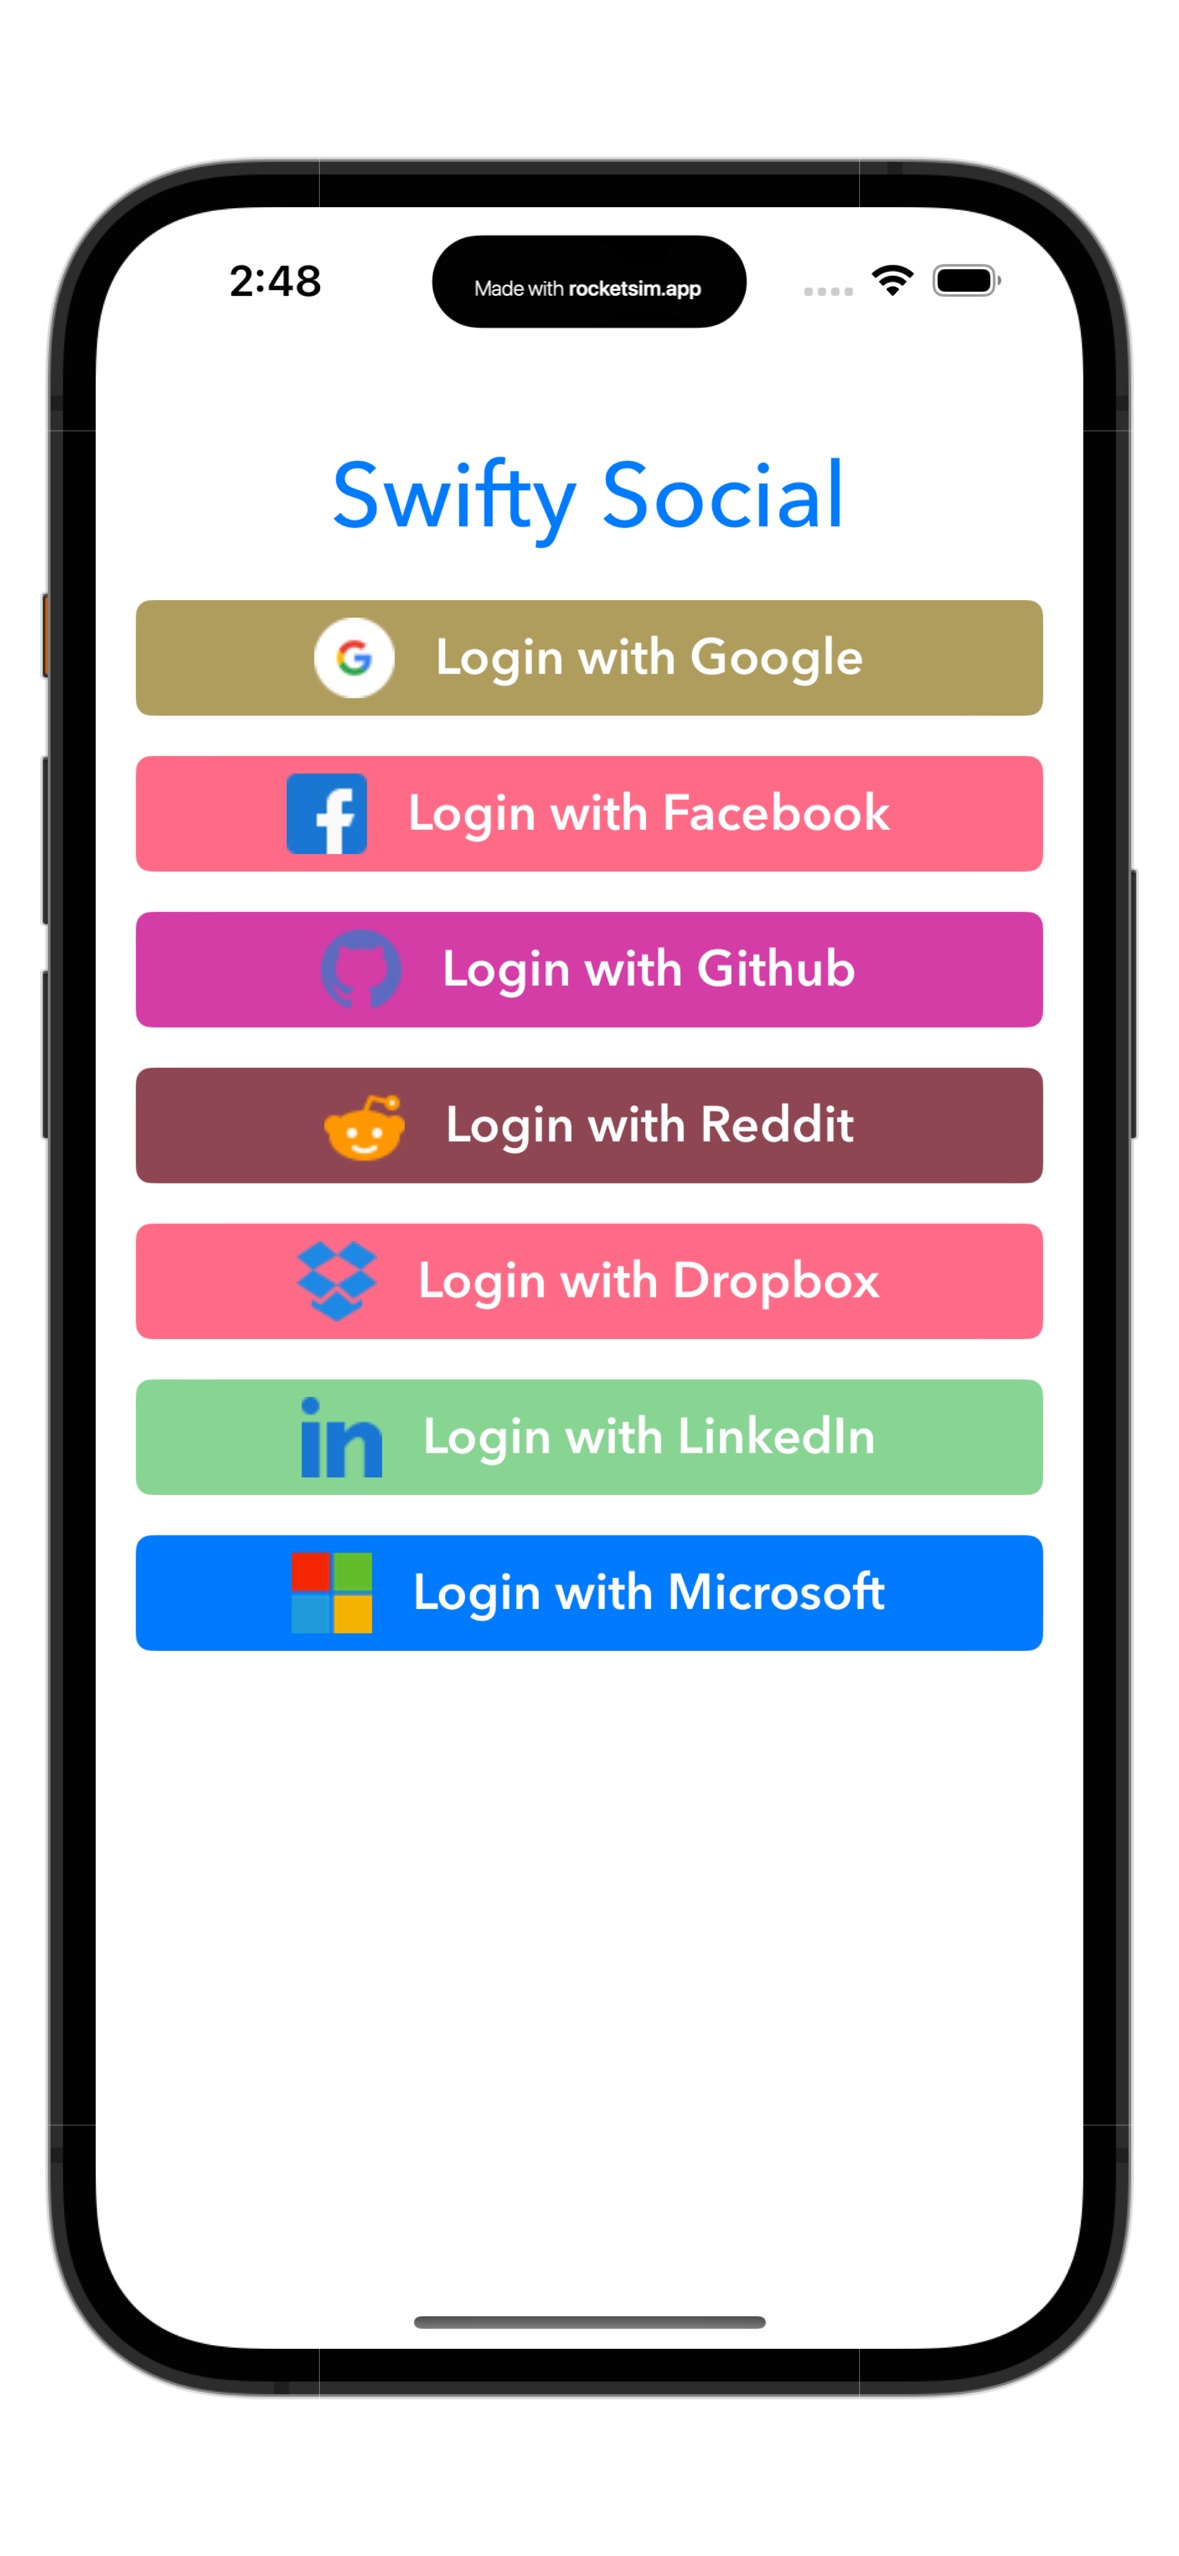
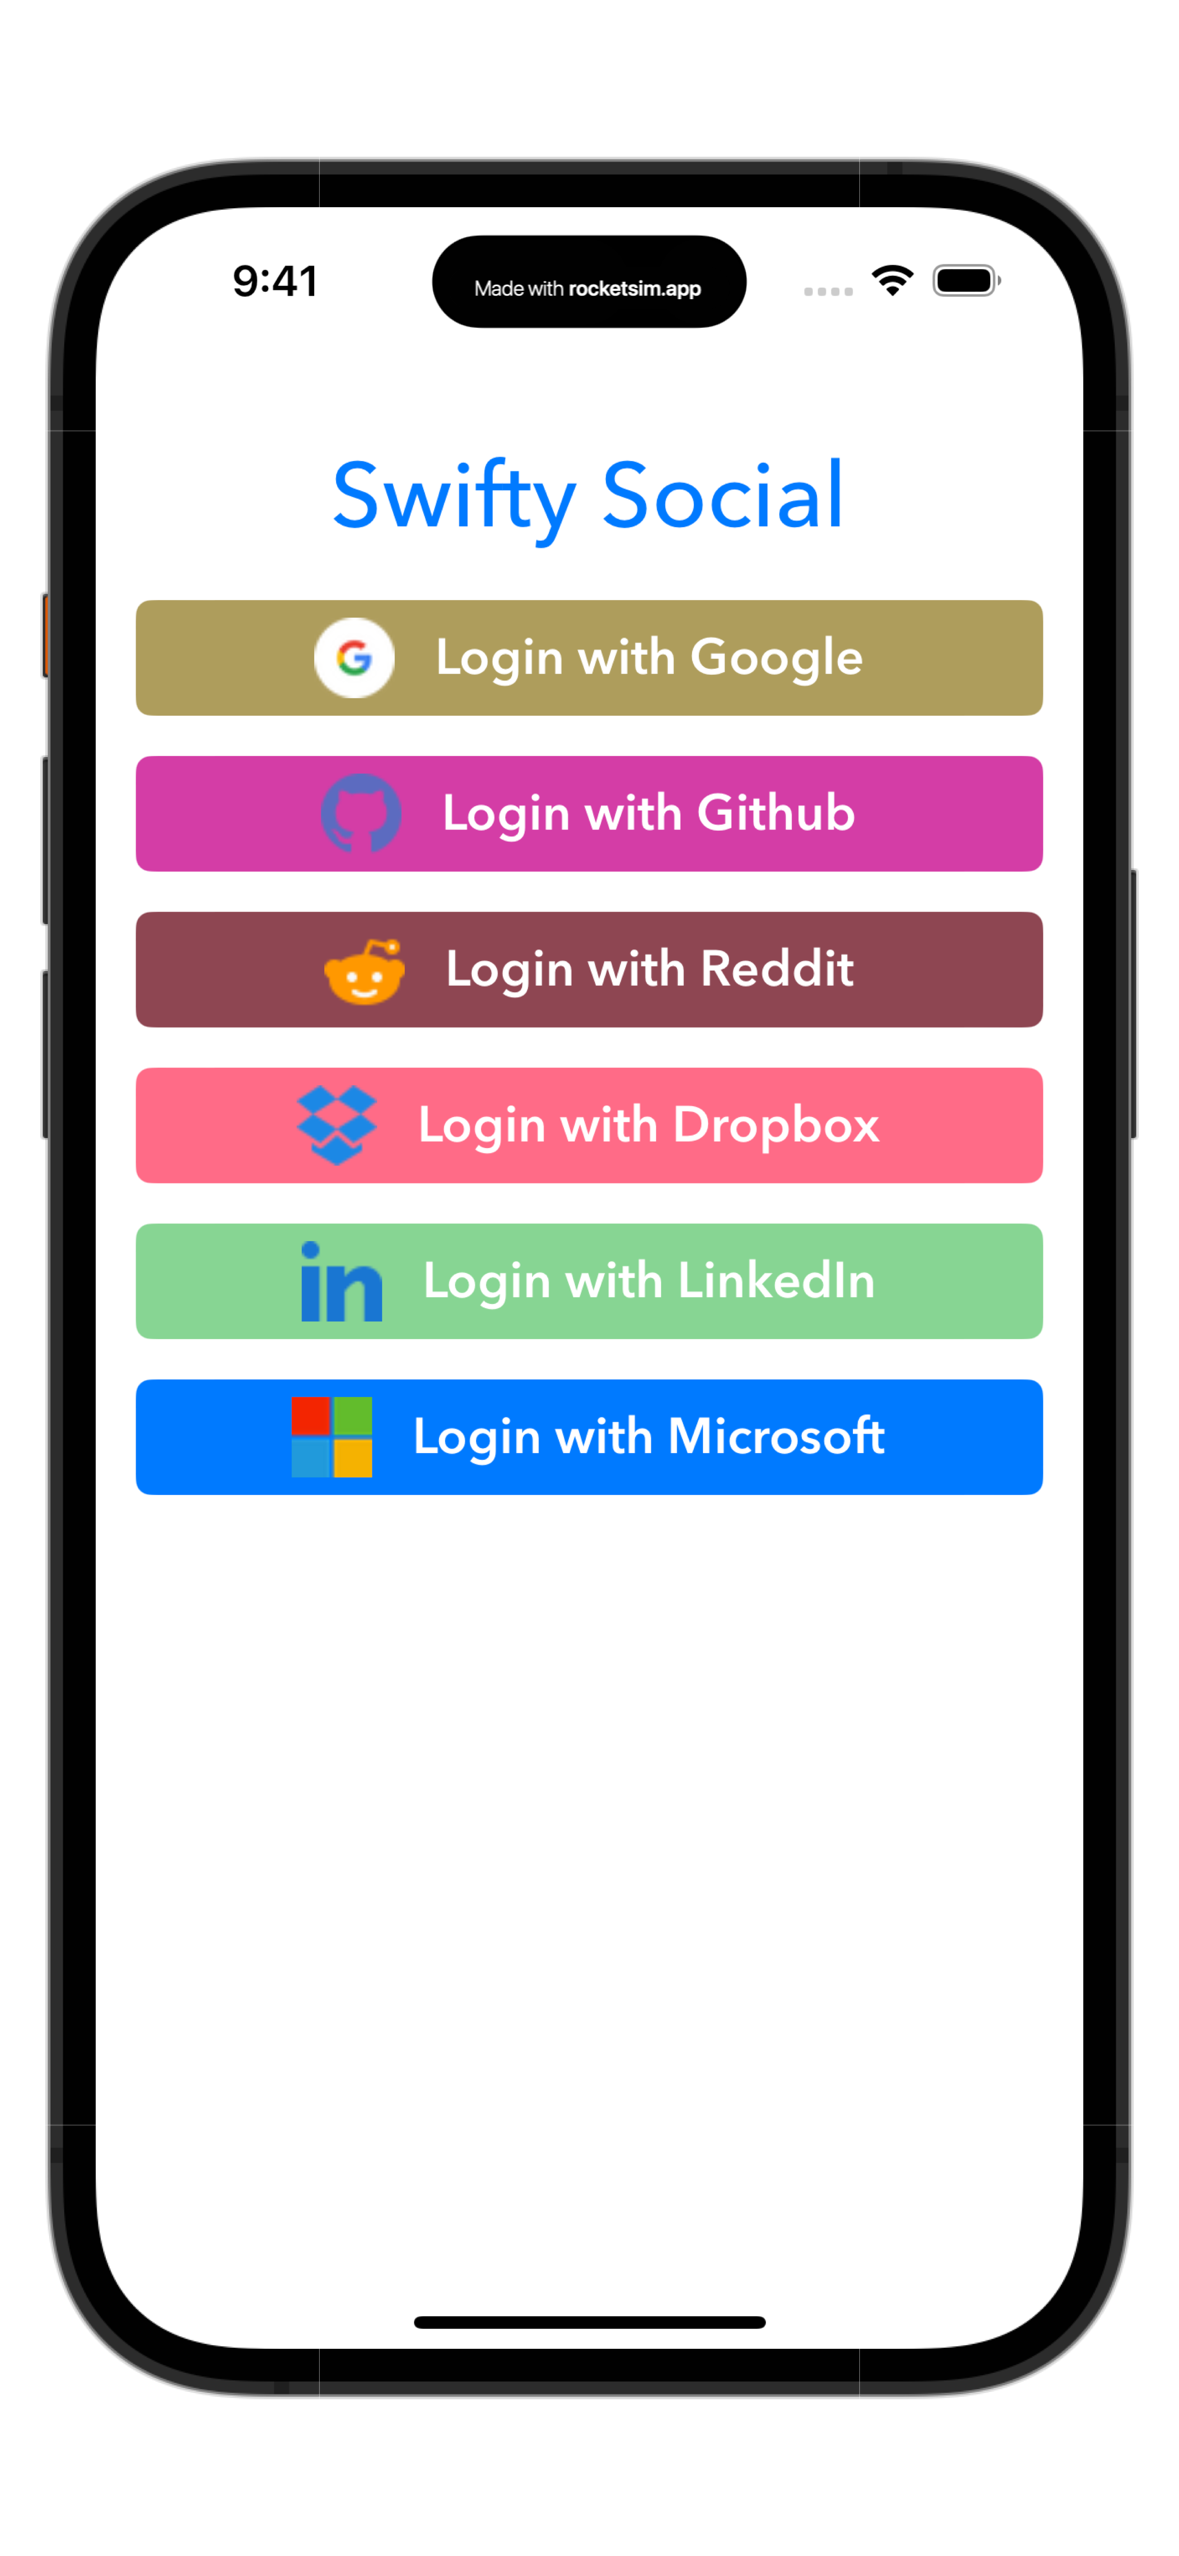
Remove Facebook
Removed Facebook as an OAuth login provider. They now require the users of their API to have a verified business.

Changed region(s): [[0.0916, 0.2782, 0.8855, 0.6491], [0.3664, 0.8963, 0.6412, 0.9272], [0.1832, 0.0927, 0.2748, 0.1236]]

diff --git a/README.md b/README.md
@@ -49,6 +49,18 @@ SwiftySocial(for: .google).login { result in
 }
 ```
 
+The final response object `SwiftySocialUser` has the following fields:
+
+```swift
+public struct SwiftySocialUser {
+    public let userId: String
+    public let userName: String
+    public let email: String?
+    public let accessToken: String
+    public let refreshToken: String?
+}
+```
+
 ## Providers
 The SDK supports the following providers. More providers will be added over time.
 
